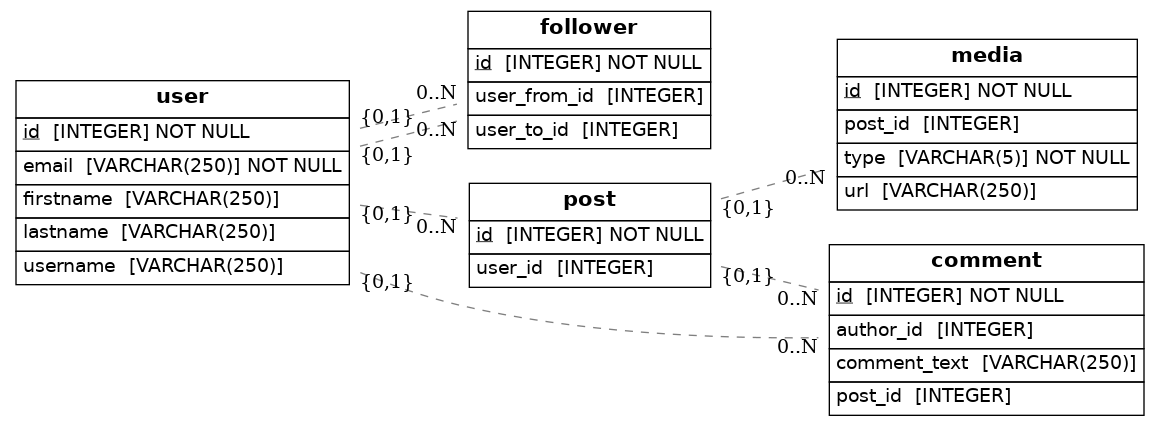
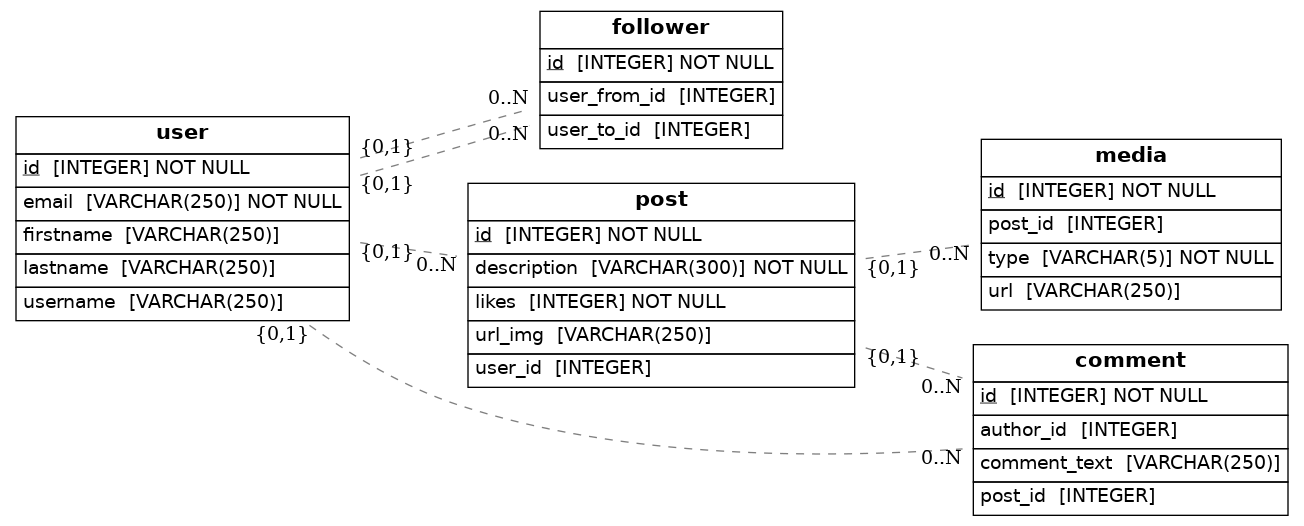
agregue url_img y likes

Changed region(s): [[0.0, 0.0, 0.9931, 1.0], [0.7138, 0.0915, 0.7448, 0.1221]]

diff --git a/src/models.py b/src/models.py
@@ -29,6 +29,9 @@ class Post(Base):
     id = Column(Integer, primary_key = True)
     user_id = Column(Integer, ForeignKey('user.id'))
     user = relationship(User)
+    url_img = Column(String(250))
+    likes = Column(Integer, nullable=False)
+    description = Column(String(300), nullable=False)
 
 class Media(Base):
     __tablename__ = 'media'
